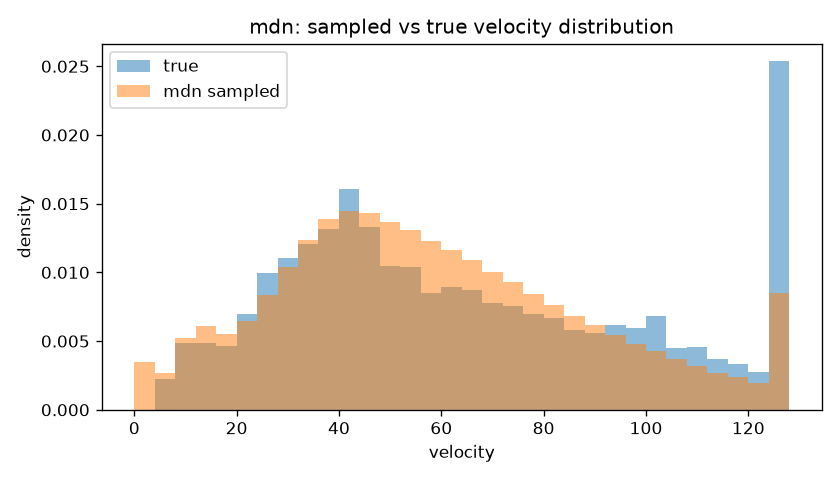
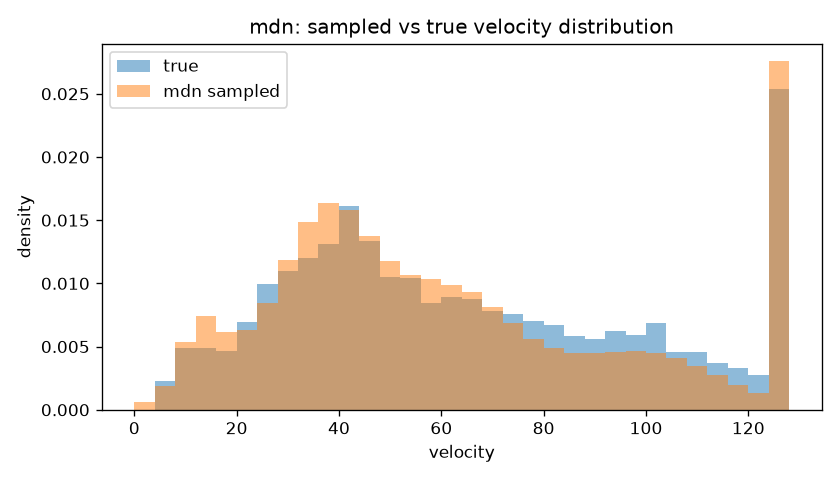
fix: prevent MDN mode collapse (spread-init + load-balancing)
Diagnosed: the MDN collapsed to one component (pi=[.007,0,.993,0,0], eff
#components 1.03/5), behaving like a single broad Gaussian. Root cause was
winner-take-all softmax collapse amplified by warm-starting from the
point-optimized backbone.

Fix: spread the component-mean bias at init (heads.init_mdn_head) + a
load-balancing penalty on batch-averaged pi (heads.mdn_load_balance,
--load-balance in train_head). Retrained MDN now uses 2.67/5 effective
components (means spanning ghost->accent) and beats the Gaussian across the
board: sampled std_ratio 0.868->0.995, W1 6.44->2.95, histI 0.877->0.921,
disc-NLL 3.47->3.13.

diff --git a/drumhumanizer/heads.py b/drumhumanizer/heads.py
@@ -50,12 +50,39 @@ def _normal_cdf(x, mu, sigma):
 
 
 # ── MDN ─────────────────────────────────────────────────────────────────────
+# Component means spread across the velocity range so the K components start in
+# distinct regions and specialize — breaks the winner-take-all symmetry that
+# otherwise collapses the mixture to a single component.
+MDN_MU_INIT = torch.linspace(8.0, 120.0, MDN_K)
+_MDN_SIGMA_RAW_INIT = 9.0            # softplus(9)+1 ≈ 10 velocity units at init
+
+
 def _mdn_params(raw):
     r = raw.view(*raw.shape[:-1], 3, MDN_K)
     log_pi = torch.log_softmax(r[..., 0, :], dim=-1)
     mu = r[..., 1, :]
     sigma = F.softplus(r[..., 2, :]) + _SIGMA_FLOOR_MDN
     return log_pi, mu, sigma
+
+
+def init_mdn_head(linear):
+    """Initialize an MDN head Linear(d, 3K): spread the component-mean biases and
+    set a moderate initial sigma, so components specialize instead of collapsing."""
+    with torch.no_grad():
+        bias = torch.zeros(3 * MDN_K)
+        bias[MDN_K:2 * MDN_K] = MDN_MU_INIT               # mu block
+        bias[2 * MDN_K:] = _MDN_SIGMA_RAW_INIT            # sigma_raw block
+        linear.bias.copy_(bias)
+
+
+def mdn_load_balance(raw, pad_mask):
+    """Load-balancing penalty: negative entropy of the batch-averaged mixture
+    weights. Minimizing it maximizes average-usage entropy, so every component is
+    used *somewhere* (prevents collapse) without forcing each token to be multimodal.
+    A collapsed (one-hot average) mixture scores 0; uniform scores log(1/K)."""
+    log_pi, _, _ = _mdn_params(raw)
+    mean_pi = log_pi.exp()[~pad_mask].mean(0)             # [K]
+    return (mean_pi * mean_pi.clamp_min(1e-9).log()).sum()
 
 
 # ── per-token log-probability (each head's own measure) ──────────────────────

diff --git a/tests/test_heads.py b/tests/test_heads.py
@@ -72,6 +72,31 @@ def test_nll_masks_padding():
     assert torch.allclose(loss_masked, loss_first_two, atol=1e-6)
 
 
+def test_init_mdn_head_spreads_means():
+    import torch.nn as nn
+    lin = nn.Linear(8, 3 * heads.MDN_K)
+    heads.init_mdn_head(lin)
+    # with zero input, raw == bias, so component means == the spread init
+    raw = lin.bias.detach().unsqueeze(0)          # [1, 3K]
+    _, mu, _ = heads._mdn_params(raw)
+    assert torch.allclose(mu[0], heads.MDN_MU_INIT, atol=1e-4)
+    # means are distinct and span a wide range (anti-symmetry)
+    assert mu[0].max() - mu[0].min() > 80
+
+
+def test_mdn_load_balance_penalizes_collapse():
+    K = heads.MDN_K
+    pad = torch.zeros(100, dtype=torch.bool)
+    # collapsed: huge logit on one component for every token
+    collapsed = torch.zeros(100, 3 * K); collapsed[:, 2] = 20.0
+    # balanced: equal pi logits
+    balanced = torch.zeros(100, 3 * K)
+    assert heads.mdn_load_balance(collapsed, pad) > heads.mdn_load_balance(balanced, pad)
+    # balanced usage is at (near) the minimum penalty
+    assert torch.isclose(heads.mdn_load_balance(balanced, pad),
+                         torch.tensor(math.log(1.0 / K)), atol=1e-4)
+
+
 def test_sample_is_in_range_and_reproducible():
     torch.manual_seed(0)
     for ht, raw in [("gaussian", torch.randn(50, 2)),

diff --git a/scripts/train_head.py b/scripts/train_head.py
@@ -102,6 +102,8 @@ def main():
     ap.add_argument("--batch-size", type=int, default=64)
     ap.add_argument("--lr", type=float, default=3e-4)
     ap.add_argument("--patience", type=int, default=3)
+    ap.add_argument("--load-balance", type=float, default=0.0,
+                    help="MDN only: weight on the load-balancing (anti-collapse) penalty")
     ap.add_argument("--resume", action="store_true")
     ap.add_argument("--eval-only", action="store_true")
     ap.add_argument("--no-warm-start", action="store_true")
@@ -158,7 +160,10 @@ def main():
             for voice, genre, num, target, pad, row in tr_l:
                 opt.zero_grad()
                 raw = model(voice.to(device), genre.to(device), num.to(device), pad.to(device))
-                loss = heads.nll(head, raw, target.to(device), pad.to(device))
+                pad_d = pad.to(device)
+                loss = heads.nll(head, raw, target.to(device), pad_d)
+                if head == "mdn" and args.load_balance > 0:
+                    loss = loss + args.load_balance * heads.mdn_load_balance(raw, pad_d)
                 loss.backward()
                 torch.nn.utils.clip_grad_norm_(model.parameters(), 5.0)   # MDN stability
                 opt.step()

diff --git a/drumhumanizer/model.py b/drumhumanizer/model.py
@@ -7,7 +7,7 @@ import math
 import torch
 import torch.nn as nn
 
-from .heads import head_output_dim
+from .heads import head_output_dim, init_mdn_head
 from .seqdata import NUMERIC_FEATURES
 from .voicemap import CANONICAL_VOICES
 
@@ -43,6 +43,8 @@ class VelocityTransformer(nn.Module):
         self.encoder = nn.TransformerEncoder(layer, num_layers=n_layers,
                                              enable_nested_tensor=False)
         self.head = nn.Linear(d_model, head_output_dim(head))
+        if head == "mdn":
+            init_mdn_head(self.head)          # spread component means to avoid collapse
 
     def forward(self, voice_idx, genre_idx, num_feats, pad_mask):
         v = self.voice_emb(voice_idx)                     # [B, L, voice_emb]

diff --git a/docs/plan_c/results.md b/docs/plan_c/results.md
@@ -15,7 +15,7 @@ flattens; sampling from the learned distribution puts the variance back):
 | head | point std_ratio | **sampled std_ratio** |
 |------|----------------:|----------------------:|
 | Gaussian | 0.564 | 0.851 |
-| MDN | 0.504 | 0.868 |
+| MDN (anti-collapse) | 0.807 | **0.995** |
 | **Categorical** | 0.784 | **0.982** |
 
 ## Full comparison (test split)
@@ -33,14 +33,25 @@ histogram intersection (1 = identical distributions).
 | transformer det. (Plan B) | — | 19.56 | 0.605 | 0.612 | 0.895 | — | — |
 | Gaussian — point | 3.55 | 22.02 | 0.575 | 0.616 | 0.564 | — | — |
 | Gaussian — sample | 3.55 | 27.62 | 0.293 | 0.356 | 0.851 | 6.03 | 0.873 |
-| MDN — point | 3.47 | 22.60 | 0.537 | 0.611 | 0.504 | — | — |
-| MDN — sample | 3.47 | 29.02 | 0.240 | 0.298 | 0.868 | 6.44 | 0.877 |
+| MDN — point | 3.13 | 19.69 | 0.617 | 0.608 | 0.807 | — | — |
+| MDN — sample | 3.13 | 24.55 | 0.455 | 0.468 | 0.995 | 2.95 | 0.921 |
 | **Categorical — point** | **3.04** | **19.17** | **0.632** | **0.626** | 0.784 | — | — |
 | **Categorical — sample** | **3.04** | 24.16 | 0.468 | 0.483 | **0.982** | **1.49** | **0.947** |
 
-(Native NLL — Gaussian 4.93, MDN 4.85 — is a continuous density and not comparable to
-the categorical's discrete NLL; `disc_nll` is the fair cross-head number. Among the
-continuous heads MDN's multimodality gives a small NLL edge over Gaussian.)
+(Native NLL — Gaussian 4.93, MDN 4.47 — is a continuous density and not comparable to
+the categorical's discrete NLL; `disc_nll` is the fair cross-head number.)
+
+> **MDN mode-collapse fix.** The MDN was initially degenerate: diagnostics showed
+> π = `[0.007, 0, 0.993, 0, 0]` — one component carried 99.3% of the weight (effective
+> #components 1.03/5), so it behaved like a single broad Gaussian and its histogram was
+> indistinguishable from the Gaussian head's. Root cause was classic winner-take-all
+> collapse (symmetric head init + softmax rich-get-richer, amplified by warm-starting
+> from a point-optimized backbone). Fix: **spread the component-mean initialization**
+> across the velocity range + a **load-balancing penalty** on the batch-averaged π. The
+> retrained MDN uses 2.67/5 effective components with means spanning [14, 42, 64, 95,
+> 127] (ghost → accent), and its metrics jumped accordingly (sampled std_ratio
+> 0.868 → 0.995, W1 6.44 → 2.95, histI 0.877 → 0.921, disc-NLL 3.47 → 3.13). The numbers
+> above are the fixed model.
 
 ## Findings
 
@@ -59,11 +70,13 @@ continuous heads MDN's multimodality gives a small NLL edge over Gaussian.)
    accuracy/ranking; sample for realistic, human-like variance.** The categorical head
    is best under *both* readouts, so it is the recommended model.
 
-3. **Gaussian ≈ MDN, both behind categorical.** MDN's mixture gives a marginal NLL
-   improvement over the single Gaussian (multimodality), but its mixture-*mean* point
-   readout sits between modes (worst point std_ratio 0.504) and its continuous samples
-   match the true velocity histogram far worse than the categorical (W1 6.44 vs 1.49).
-   MDN trained stably (σ floor + grad clipping; no NaNs).
+3. **MDN (after the anti-collapse fix) clearly beats the Gaussian and rivals the
+   categorical.** Once its components stay alive, the mixture's genuine multimodality
+   shows: disc-NLL 3.13 (vs Gaussian 3.55, categorical 3.04), sampled std_ratio 0.995
+   (best of all heads) and much better distribution match than Gaussian (W1 2.95 vs
+   6.03, histI 0.921 vs 0.873). The categorical still edges it on W1/histI/NLL and is
+   simpler and stabler, but the MDN is now a legitimate multimodal model rather than a
+   disguised single Gaussian. It trained stably (σ floor + grad clipping; no NaNs).
 
 4. **Does the distribution earn its complexity?** For pure point accuracy, LightGBM
    (MAE 18.02) is still the strongest single number — but it is a *point* model and
